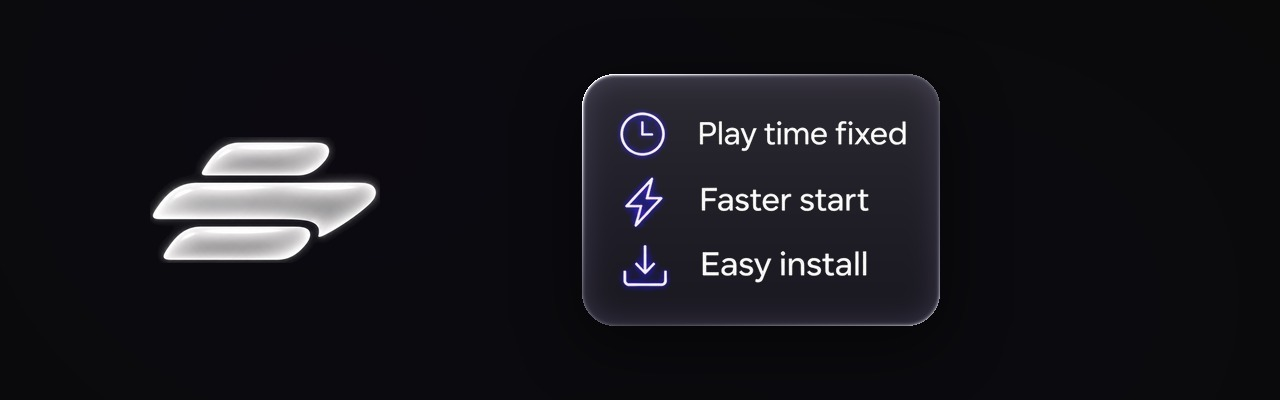
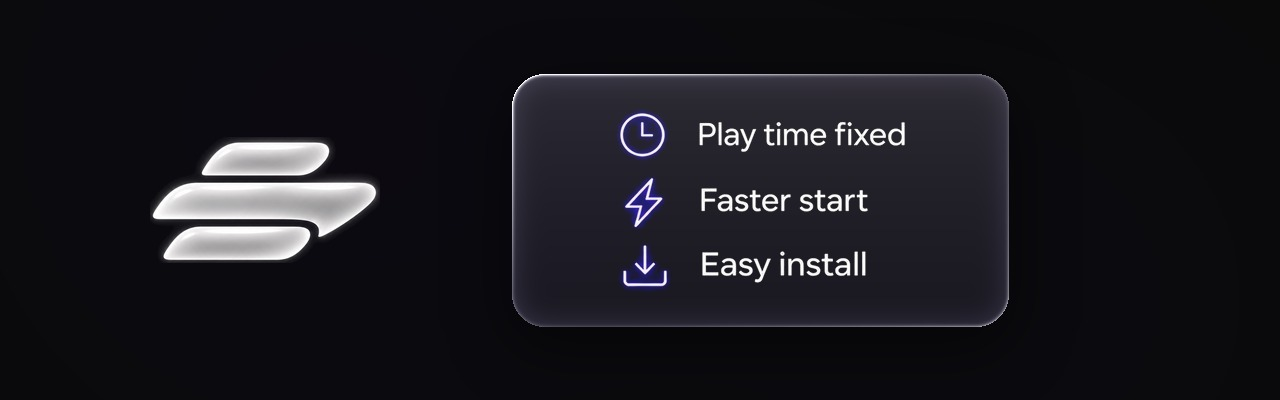
What's new pictures: the same box and text size on every card, text centred in it

Changed region(s): [[0.375, 0.18, 0.8125, 0.84], [0.5, 0.45, 0.6875, 0.54], [0.5312, 0.63, 0.6875, 0.69]]

diff --git a/tools/whatsnew_glass.py b/tools/whatsnew_glass.py
@@ -19,6 +19,8 @@ base = Image.fromarray(np.clip(bg, 0, 255).astype("uint8"))
 ys, xs = np.where(a.max(2) > 40)
 pad = 34
 box = (xs.min() - pad, ys.min() - pad, xs.max() + pad, ys.max() + pad)
+if len(sys.argv) > 3:  # a fixed box (x0,y0,x1,y1), the same on every card
+    box = tuple(int(v) for v in sys.argv[3].split(","))
 R = 32  # corner radius
 x0, y0, x1, y1 = box
 mask = Image.new("L", (W, H)); ImageDraw.Draw(mask).rounded_rectangle(box, R, fill=255)
